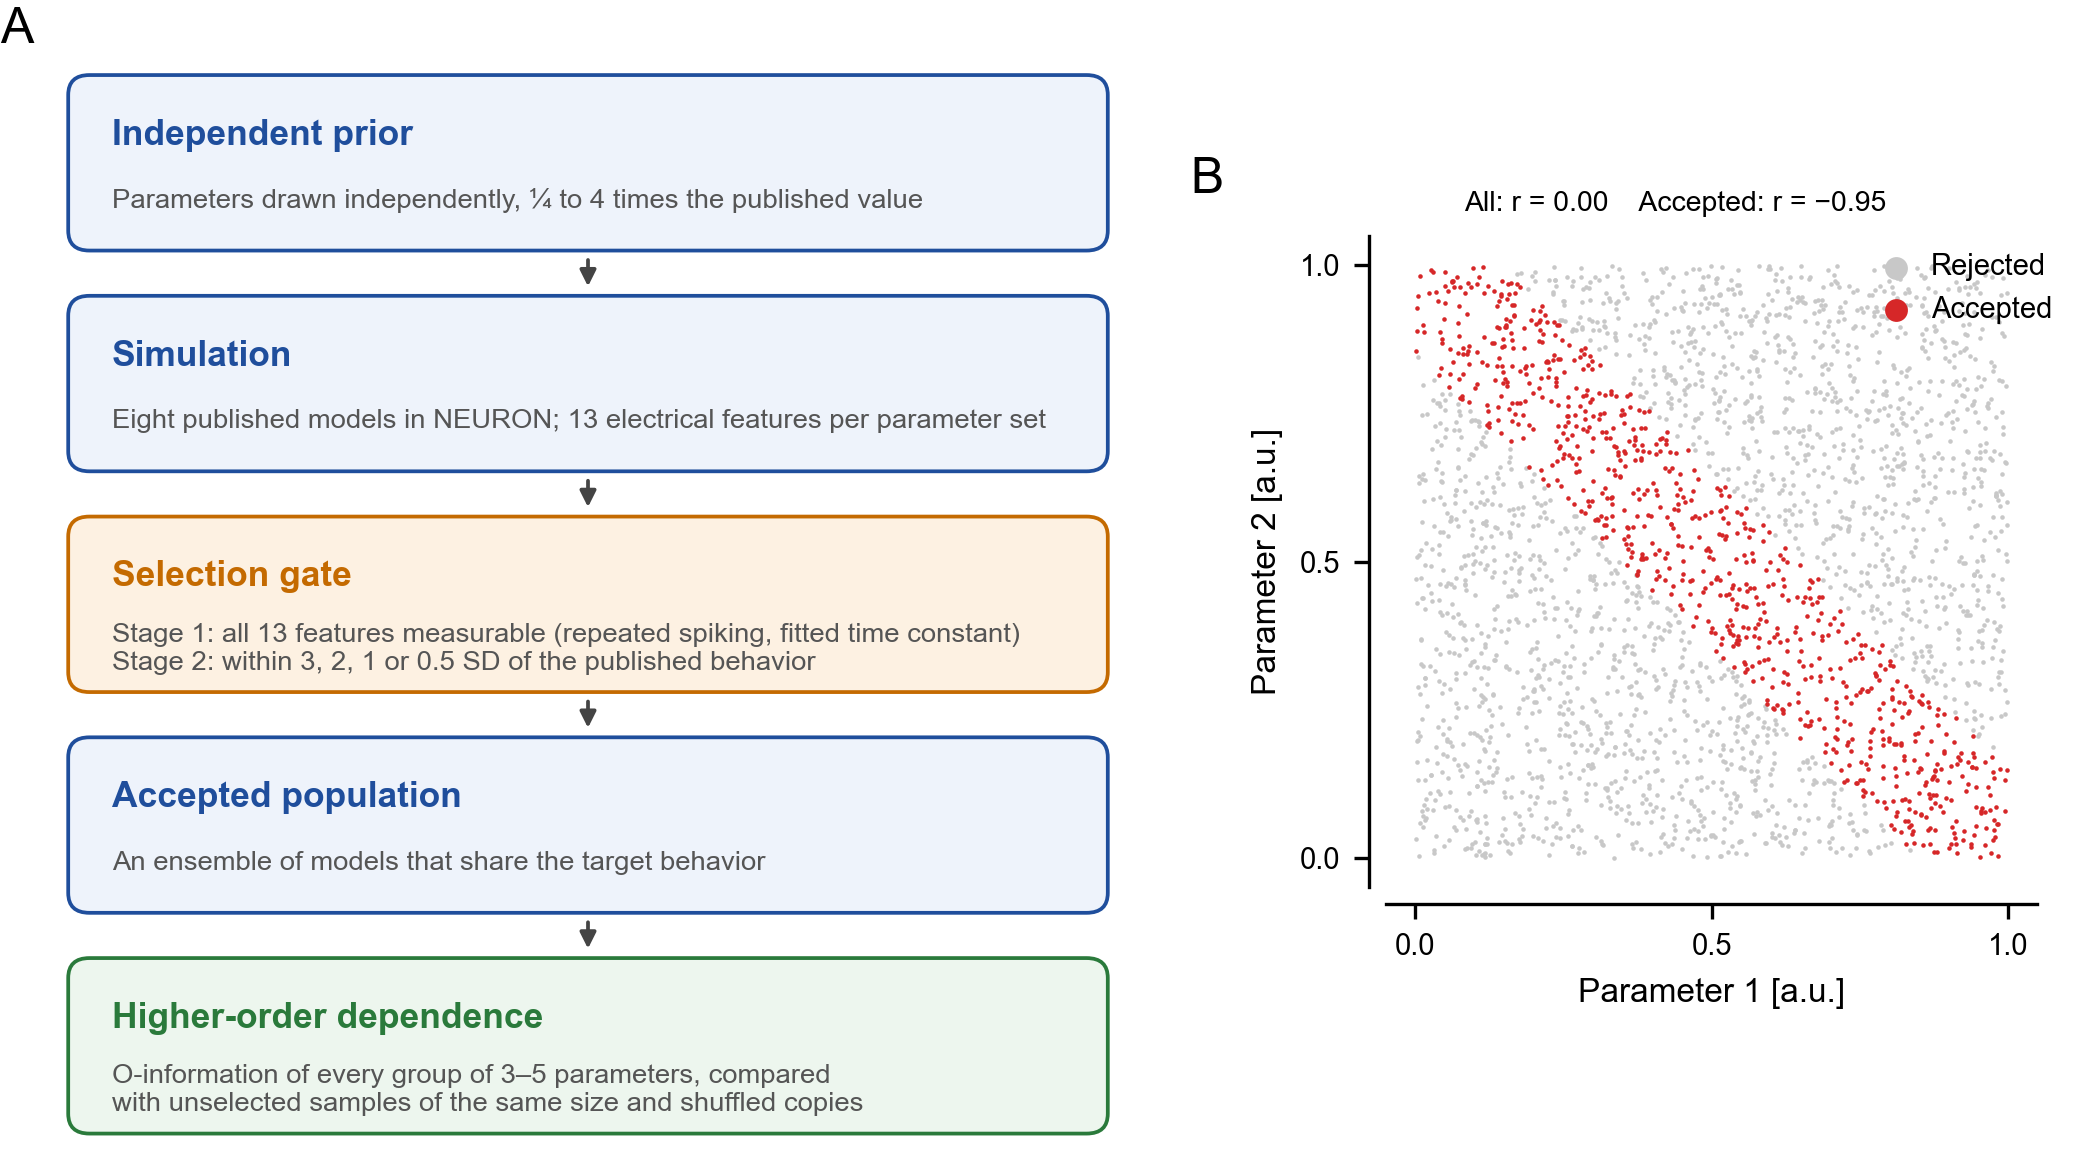
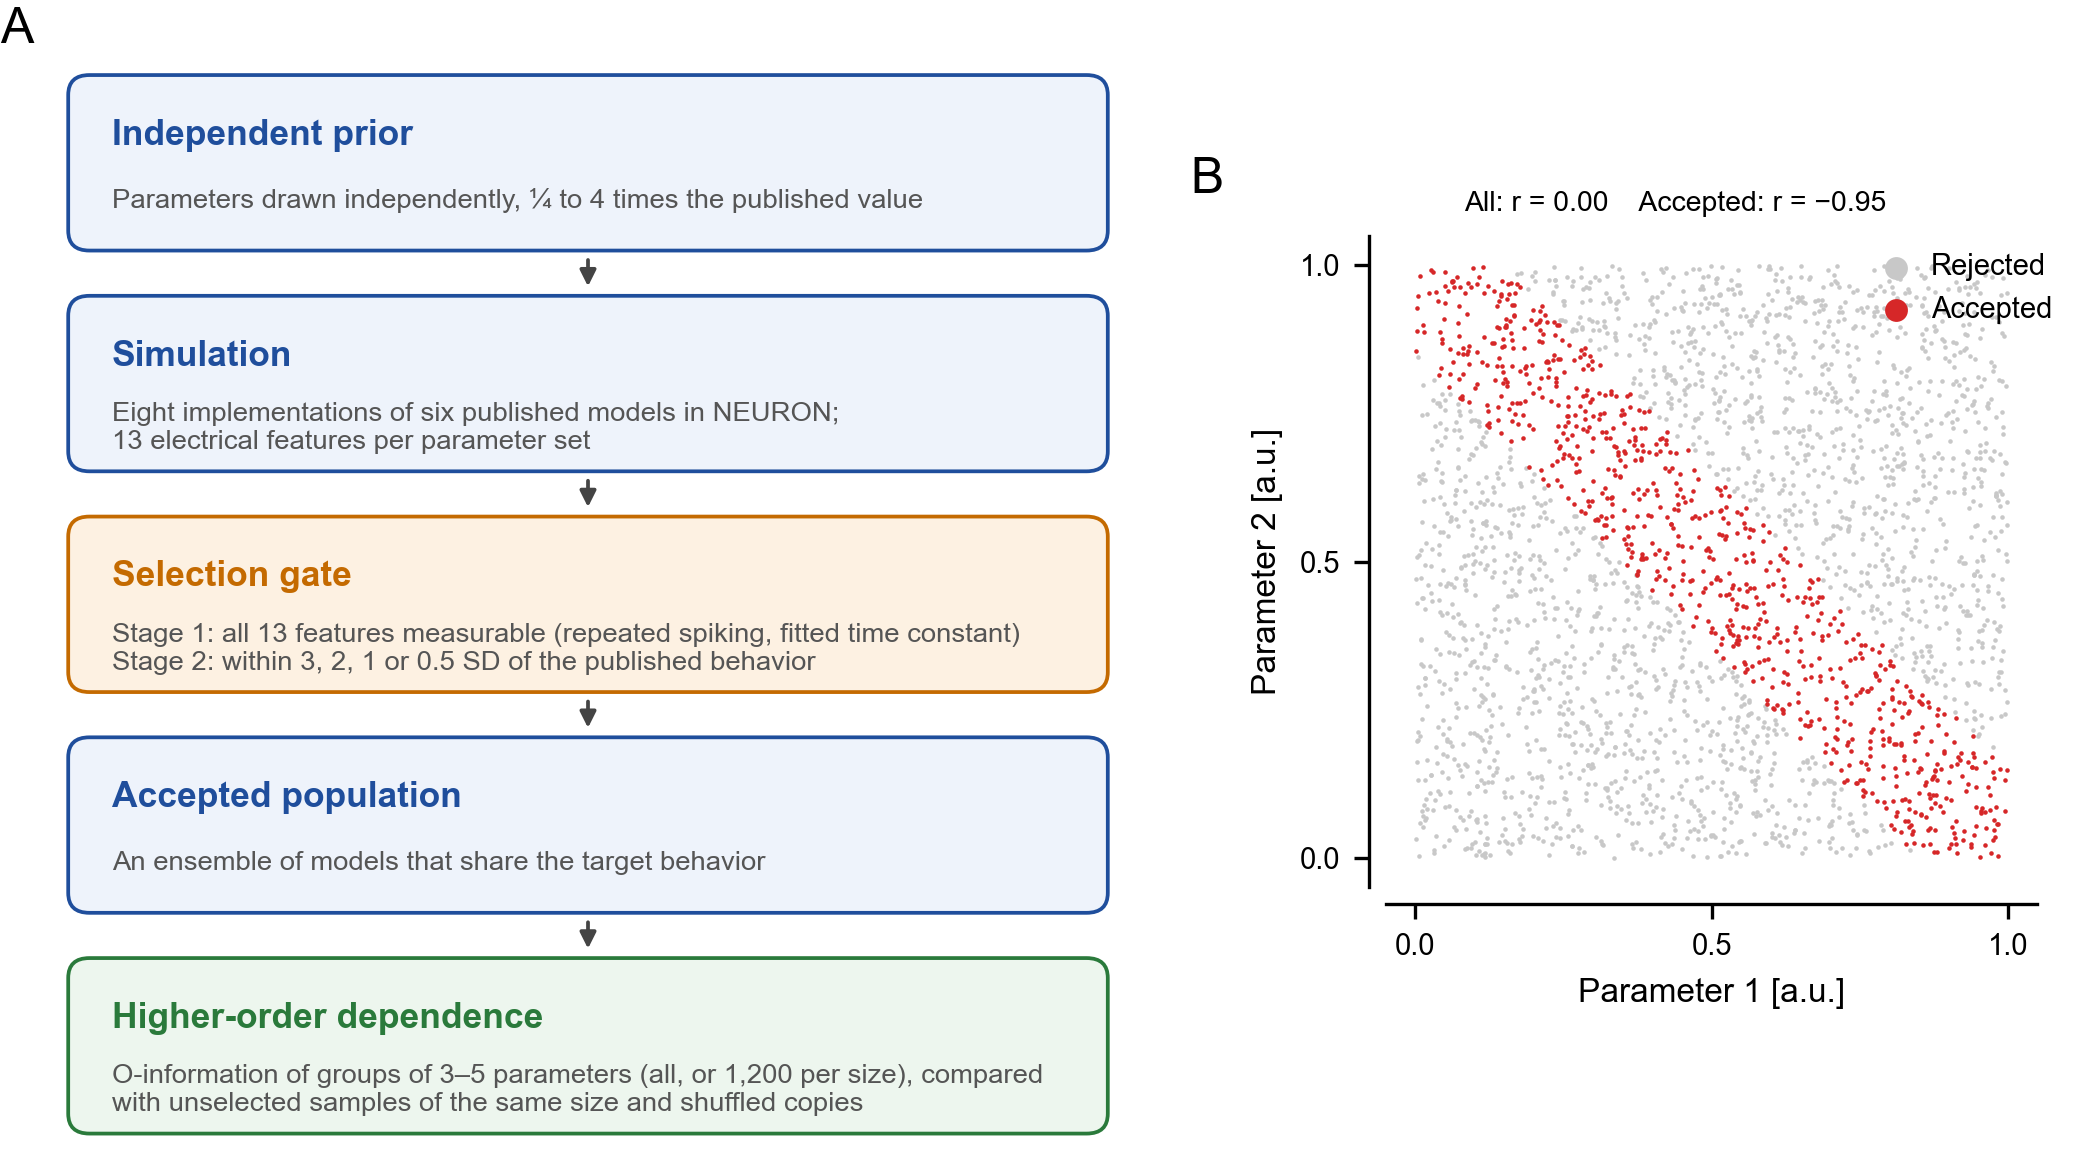
analyses and figure fixes for the review of manuscript V20
- tools/run_review_v19.py (stored data only; results/analyses/review_v19/):
  * estimator agreement between Gaussian and Gaussian-copula triplet
    estimates, counted as before, without the undefined Khaliq family, and
    with unselected populations counted once (14,291 estimates, r = 0.907;
    population shares r = 0.959);
  * leave-one-source-model-out prediction scored against the training-model
    mean (published score) and against the held-out model's own mean, for
    three population sets and three predictor sets;
  * stability of the (up to) ten most synergistic triplets compared with
    random thinning of the 3-SD population to each tighter size.
- hierarchical.leave_one_model_out also reports r2_vs_heldout_mean (held-out
  mean as the baseline); the existing r2_out_of_sample is unchanged and its
  baseline (the training mean) is now documented in the code.
- Figures: Fig. 5C legend built from the fitted row counts (was hard-coded
  166/160/95); Fig. 5D axis states the training-mean baseline; Fig. 1A says
  eight implementations of six published models and notes the 1,200-group
  cap; Fig. 3 legend notes six implementations at 0.5 SD for the unselected
  line too.

Changed region(s): [[0.0619, 0.3385, 0.4952, 0.4], [0.1548, 0.8923, 0.4952, 0.9231]]

diff --git a/tools/run_review_v19.py b/tools/run_review_v19.py
@@ -1,0 +1,142 @@
+#!/usr/bin/env python3
+"""Analyses for the review of manuscript V20 (stored tables and simulations only).
+
+Outputs (results/analyses/review_v19/):
+
+estimator_agreement.json
+    Correlation between Gaussian and Gaussian-copula triplet estimates in the
+    primary panel, (a) as previously counted, (b) without the two Khaliq
+    selections of the undefined rheobase-normalised family, and (c) also
+    counting unselected populations stored under both protocol labels once (the
+    convention of the attribution analysis); plus the correlation between the
+    populations' shares of synergy-dominated triplets.
+lolo_two_baselines.json
+    Leave-one-source-model-out prediction of the synergy part for the three sets
+    of populations and three predictor sets, scored against two baselines: the
+    training-model mean (the published score) and the held-out model's own mean.
+top_triplet_thinning.parquet
+    Overlap between the (up to) ten most synergistic triplets at 3 SD and at each
+    tighter tolerance, compared with 200 random subsets of the 3-SD population of
+    the same size as the tighter population (fixed-amplitude protocols, RMS
+    criterion, primary panel).
+"""
+from __future__ import annotations
+
+import importlib.util as iu
+import json
+import sys
+from concurrent.futures import ProcessPoolExecutor
+from pathlib import Path
+
+import numpy as np
+import pandas as pd
+
+ROOT = Path(__file__).resolve().parents[1]
+sys.path.insert(0, str(ROOT / "src"))
+OUT = ROOT / "results" / "analyses" / "review_v19"
+SEED = 20260804
+PRIMARY = ["hh_point", "hh_cable", "pospischil_rs", "pospischil_fs", "khaliq_purkinje",
+           "migliore_ca1", "bbp_l5pc"]
+N_THIN = 200
+
+
+def _load(name):
+    spec = iu.spec_from_file_location(name, ROOT / "tools" / f"{name}.py")
+    mod = iu.module_from_spec(spec)
+    spec.loader.exec_module(mod)
+    return mod
+
+
+def estimator_agreement():
+    from compass.analysis.cohorts import drop_duplicate_scientific_rows
+    ra = _load("run_analysis")
+    t = pd.read_parquet(ROOT / "results" / "analyses" / "tuple_scores_screening_n4proj.parquet")
+    t = t[t.model_id.isin(PRIMARY) & (t.tuple_idx.str.count("-") == 2)]
+    key = ["model_id", "regime", "label", "protocol_family", "metric", "tuple_idx"]
+    w = t.pivot_table(index=key, columns="estimator", values="o_information").dropna(subset=["gaussian", "copula"]).reset_index()
+
+    def summary(d):
+        share = d.groupby(key[:-1]).apply(lambda g: pd.Series({"g": (g.gaussian < 0).mean(), "c": (g.copula < 0).mean()}),
+                                         include_groups=False)
+        return {"n_triplet_estimates": int(len(d)), "n_populations": int(len(share)),
+                "r_triplets": float(np.corrcoef(d.gaussian, d.copula)[0, 1]),
+                "r_shares": float(np.corrcoef(share.g, share.c)[0, 1])}
+
+    a = w
+    b = ra.drop_undefined_family_rows(a)
+    c = drop_duplicate_scientific_rows(b)
+    return {"as_previously_counted": summary(a), "without_undefined_khaliq_family": summary(b),
+            "unselected_counted_once": summary(c)}
+
+
+def lolo_two_baselines():
+    rv = _load("run_review_regression_variants")
+    from compass.analysis.hierarchical import PREDICTOR_BLOCKS, leave_one_lineage_out
+    g = rv.load()
+    SEL = ["E3", "E3b", "E4", "E4b"]
+    fits = {"all_populations": g, "without_clustered": g[g.regime != "E6"],
+            "phenotype_selected_only": g[g.regime.isin(SEL)]}
+    sets = {"sampling+geometry, preregistered geometry block": PREDICTOR_BLOCKS["sampling"] + PREDICTOR_BLOCKS["geometry"],
+            "sampling+intrinsic_dimension (geometry revised after review)": PREDICTOR_BLOCKS["sampling"] + rv.NONCOV,
+            "sampling_only (post hoc)": PREDICTOR_BLOCKS["sampling"]}
+    out = {}
+    for name, d0 in fits.items():
+        lo = leave_one_lineage_out(d0, "synergy_area", sets)
+        out[name] = {"rows": int(len(d0))}
+        for p, s in lo.groupby("predictors"):
+            s = s.set_index("held_out_group")
+            out[name][p] = {"vs_training_mean": s["r2_out_of_sample"].round(3).to_dict(),
+                            "vs_heldout_mean": s["r2_vs_heldout_mean"].round(3).to_dict(),
+                            "n_positive_vs_training_mean": int((s["r2_out_of_sample"] > 0).sum()),
+                            "n_positive_vs_heldout_mean": int((s["r2_vs_heldout_mean"] > 0).sum())}
+    return out
+
+
+def _tops(x, ts, eng_cls):
+    v = eng_cls(x, copula=False, bias_correct=True).o_information_batch(ts)
+    order = np.argsort(v)[:10]
+    return {tuple(ts[i]) for i in order if v[i] < 0}
+
+
+def thinning(mid):
+    from compass.analysis.oinfo import GaussianInfoEngine
+    from compass.analysis.tuples import generate_tuples
+    rr = _load("run_review_v18")
+    ra, ens, pids, feats, target, f1, x1 = rr.setup("screening", mid, "absolute")
+    ts = generate_tuples(len(pids), 3, max_tuples=ra.MAX_TUPLES, seed=SEED).tuples
+    pops = {e.tolerance: e.params for e in ens if e.regime in ("E3", "E3b", "E4", "E4b") and e.metric == "weighted_euclidean"}
+    if "permissive" not in pops:
+        return []
+    base = pops["permissive"]
+    top3 = _tops(base, ts, GaussianInfoEngine)
+    rows = []
+    for tol in ("moderate", "strict", "very_strict"):
+        if tol not in pops:
+            continue
+        n = len(pops[tol])
+        obs = len(_tops(pops[tol], ts, GaussianInfoEngine) & top3)
+        rng = np.random.default_rng(SEED + n)
+        thin = [len(_tops(base[rng.choice(len(base), n, replace=False)], ts, GaussianInfoEngine) & top3)
+                for _ in range(N_THIN)]
+        rows.append({"model_id": mid, "tolerance": tol, "n": n, "n_3sd": len(base),
+                     "n_top_3sd": len(top3), "overlap_observed": obs,
+                     "overlap_thinning_mean": float(np.mean(thin)),
+                     "overlap_thinning_p05": float(np.percentile(thin, 5))})
+    print("thinning", mid, flush=True)
+    return rows
+
+
+def main() -> int:
+    OUT.mkdir(parents=True, exist_ok=True)
+    (OUT / "estimator_agreement.json").write_text(json.dumps(estimator_agreement(), indent=1))
+    (OUT / "lolo_two_baselines.json").write_text(json.dumps(lolo_two_baselines(), indent=1))
+    rows = []
+    with ProcessPoolExecutor(7) as ex:
+        for r in ex.map(thinning, PRIMARY):
+            rows += r
+    pd.DataFrame(rows).to_parquet(OUT / "top_triplet_thinning.parquet", index=False)
+    return 0
+
+
+if __name__ == "__main__":
+    sys.exit(main())

diff --git a/manuscript/make_figures.py b/manuscript/make_figures.py
@@ -73,10 +73,10 @@ ax = fig.add_axes([0.0, 0.0, 0.56, 1.0]); ax.set_xlim(0, 10); ax.set_ylim(0, 10.
 lab(ax, 'A', 0.0, 0.955)
 steps = [
     ('Independent prior', 'Parameters drawn independently, ¼ to 4 times the published value', '#1f4e9c', '#eef3fb'),
-    ('Simulation', 'Eight published models in NEURON; 13 electrical features per parameter set', '#1f4e9c', '#eef3fb'),
+    ('Simulation', 'Eight implementations of six published models in NEURON;\n13 electrical features per parameter set', '#1f4e9c', '#eef3fb'),
     ('Selection gate', 'Stage 1: all 13 features measurable (repeated spiking, fitted time constant)\nStage 2: within 3, 2, 1 or 0.5 SD of the published behavior', '#c46a00', '#fdf1e2'),
     ('Accepted population', 'An ensemble of models that share the target behavior', '#1f4e9c', '#eef3fb'),
-    ('Higher-order dependence', 'O-information of every group of 3–5 parameters, compared\nwith unselected samples of the same size and shuffled copies', '#2a7a3b', '#edf6ee'),
+    ('Higher-order dependence', 'O-information of groups of 3–5 parameters (all, or 1,200 per size), compared\nwith unselected samples of the same size and shuffled copies', '#2a7a3b', '#edf6ee'),
 ]
 h, gap, top = 1.55, 0.45, 9.9
 for i, (t, s, ec, fc) in enumerate(steps):
@@ -257,7 +257,7 @@ ax.spines['left'].set_visible(False); ax.tick_params(axis='y', length=0)
 handles = [Line2D([], [], color=GREY, lw=0.7, label='Selected, individual implementations'),
            Line2D([], [], color='k', lw=0.8, label='Selected, Hay layer 5'),
            Line2D([], [], color=RED, lw=1.8, marker='o', ms=3.5, label='Selected, mean of seven (six at 0.5 SD)'),
-           Line2D([], [], color=BLUE, lw=1.6, ls=(0, (3, 1.5)), marker='s', ms=3, label='Unselected, same size, mean of seven'),
+           Line2D([], [], color=BLUE, lw=1.6, ls=(0, (3, 1.5)), marker='s', ms=3, label='Unselected, same size, mean of seven (six at 0.5 SD)'),
            Line2D([], [], color=ORANGE, lw=1.4, ls=(0, (1, 1)), marker='^', ms=3, label='All 13 features measurable, same size'),
            Line2D([], [], color=LGREY, lw=0.8, ls=(0, (1.5, 1.5)), label='Mainen, not converged (D only)')]
 fig.legend(handles=handles, loc='upper center', ncol=3, fontsize=6.6, bbox_to_anchor=(0.5, 1.04))
@@ -329,8 +329,9 @@ offset(ax, ('bottom',)); ax.spines['left'].set_visible(False); ax.tick_params(ax
 ax = fig.add_subplot(gs[1, 0]); lab(ax, 'C', -0.62)
 # C-D: attribution for three sets of populations (review of V18): geometry = the two
 # intrinsic-dimension estimates; prediction uses the predictor set fixed in advance.
-FITS = [('all_populations', 'All 166 populations', BLUE), ('without_clustered', 'Without clustered (160)', LBLUE),
-        ('phenotype_selected_only', 'Selected for behavior (95)', RED)]
+FITS = [('all_populations', 'All design rows ({})', BLUE), ('without_clustered', 'Without clustered ({})', LBLUE),
+        ('phenotype_selected_only', 'Selected for behavior ({})', RED)]
+FITS = [(k, nm.format(ATT[k]['rows']), c) for k, nm, c in FITS]   # labels from the fitted row counts
 bl = [('sampling', 'Sampling design'), ('geometry', 'Intrinsic dimension'), ('lineage', 'Source model')]
 for j, (key, nm, col) in enumerate(FITS):
     v = ATT[key]; yj = np.arange(3) + (j - 1) * 0.26
@@ -353,7 +354,7 @@ for j, (key, nm, col) in enumerate(FITS):
             ax.text(-0.98, y_, f'{v:.1f}'.replace('-', '−'), va='center', fontsize=5.2, color='white')
 ax.axvline(0, color='k', lw=0.6)
 ax.set_xlim(-1, 1); ax.set_yticks(range(len(keys))); ax.set_yticklabels([LN[k] for k in keys], fontsize=6.8); ax.invert_yaxis()
-ax.set_xlabel('Prediction of left-out source model [R²]')
+ax.set_xlabel('Prediction of left-out source model,\nR² against the training-model mean')
 offset(ax, ('bottom',)); ax.spines['left'].set_visible(False); ax.tick_params(axis='y', length=0)
 fig.savefig(OUT + '/fig5.png', bbox_inches='tight'); plt.close(fig)
 print('ok')

diff --git a/src/compass/analysis/hierarchical.py b/src/compass/analysis/hierarchical.py
@@ -433,7 +433,12 @@ def leave_one_model_out(df: pd.DataFrame, endpoint: str,
             beta, *_ = np.linalg.lstsq(A, ytr, rcond=None)
             pred = np.hstack([np.ones((te.sum(), 1)), Xte]) @ beta
             ss_res = float(np.sum((yte - pred) ** 2))
+            # Baseline: predicting the TRAINING mean for every held-out row.  A
+            # positive score means "beats that prediction for a new group"; it
+            # is not variance explained within the held-out group, which
+            # r2_vs_heldout_mean (held-out mean as the baseline) describes.
             ss_tot = float(np.sum((yte - ytr.mean()) ** 2))
+            ss_own = float(np.sum((yte - yte.mean()) ** 2))
             rows.append({
                 "endpoint": endpoint, "predictors": name,
                 # the unit actually held out, and what kind of unit it is, so a
@@ -444,6 +449,7 @@ def leave_one_model_out(df: pd.DataFrame, endpoint: str,
                 "preprocessing": "fold_local",
                 "rmse": float(np.sqrt(ss_res / te.sum())),
                 "r2_out_of_sample": float(1.0 - ss_res / ss_tot) if ss_tot > 0 else np.nan,
+                "r2_vs_heldout_mean": float(1.0 - ss_res / ss_own) if ss_own > 0 else np.nan,
             })
     return pd.DataFrame(rows)
 
